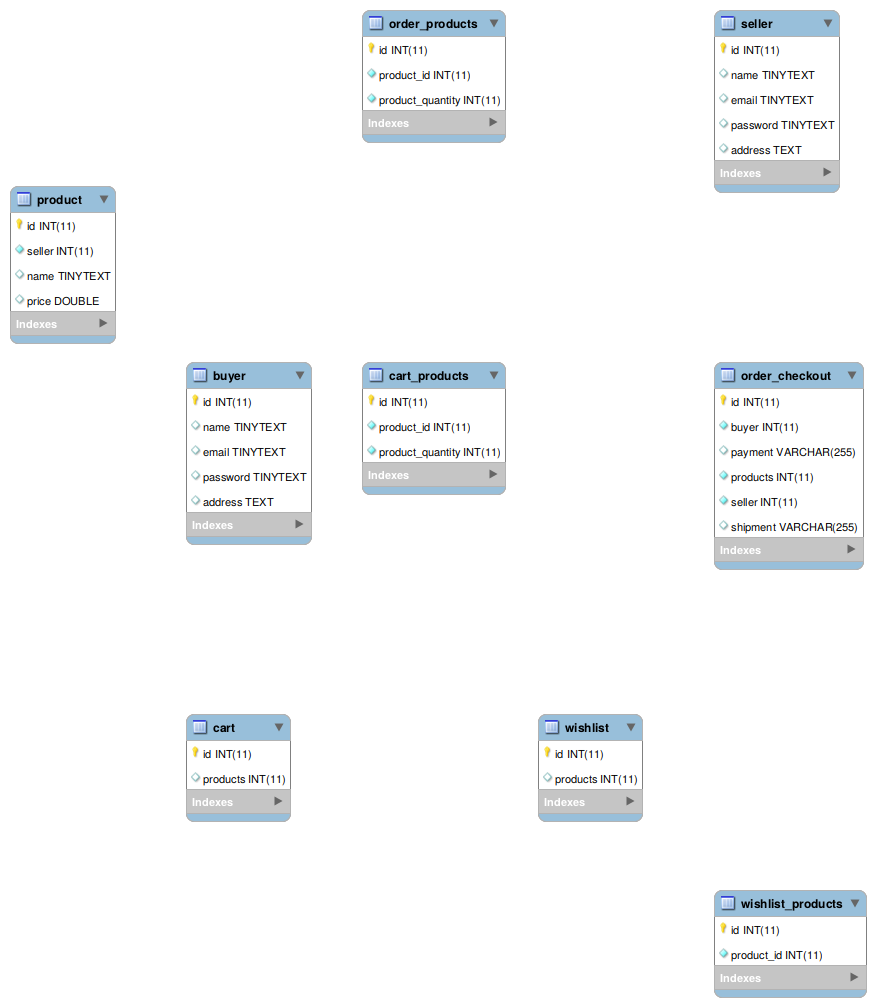
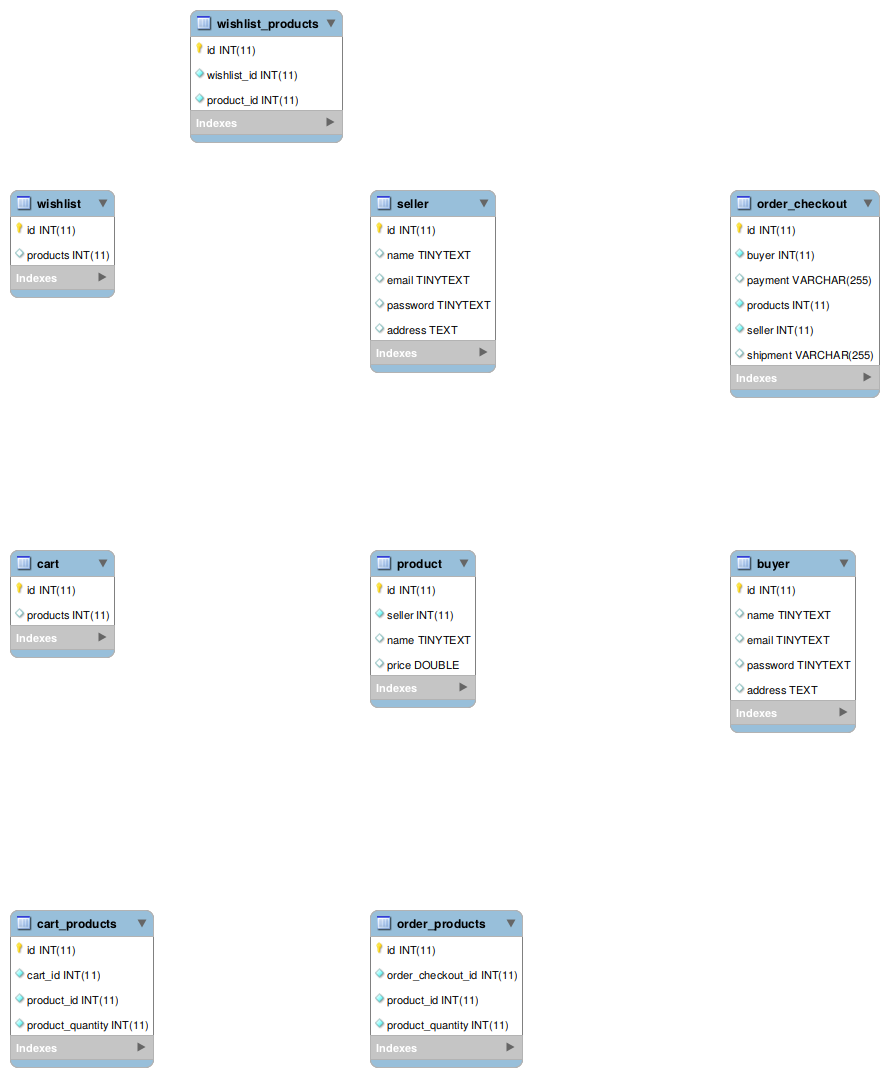
Add ID for multi entities

diff --git a/mysql-rest-service/src/main/java/com/javahelps/restservice/entity/OrderProducts.java b/mysql-rest-service/src/main/java/com/javahelps/restservice/entity/OrderProducts.java
@@ -8,6 +8,7 @@ public class OrderProducts {
 
     @Id
     private int id;
+    private int orderCheckoutId;
     private int productId;
     private int productQuantity;
 
@@ -17,6 +18,14 @@ public class OrderProducts {
 
     public void setId(int id) {
         this.id = id;
+    }
+
+    public int getOrderCheckoutId() {
+        return orderCheckoutId;
+    }
+
+    public void setOrderCheckoutId(int orderCheckoutId) {
+        this.orderCheckoutId = orderCheckoutId;
     }
 	
 	public int getProductId() {
@@ -37,6 +46,6 @@ public class OrderProducts {
 	
 	@Override
     public String toString() {
-        return "OrderProducts{" + "id='" + id + '\'' + ", productId='" + productId + '\'' + ", productQuantity='" + productQuantity + '\'' + '}';
+        return "OrderProducts{" + "id='" + id + '\'' + ", orderCheckoutId='" + orderCheckoutId + '\'' + ", productId='" + productId + '\'' + ", productQuantity='" + productQuantity + '\'' + '}';
     }
 }

diff --git a/mysql-rest-service/src/main/java/com/javahelps/restservice/entity/CartProducts.java b/mysql-rest-service/src/main/java/com/javahelps/restservice/entity/CartProducts.java
@@ -8,6 +8,7 @@ public class CartProducts {
 
     @Id
     private int id;
+    private int cartId;
     private int productId;
     private int productQuantity;
 
@@ -17,6 +18,14 @@ public class CartProducts {
 
     public void setId(int id) {
         this.id = id;
+    }
+    
+    public int getCartId() {
+        return cartId;
+    }
+
+    public void setCartId(int cartId) {
+        this.cartId = cartId;
     }
 	
 	public int getProductId() {
@@ -37,6 +46,6 @@ public class CartProducts {
 	
 	@Override
     public String toString() {
-        return "Cart{" + "id='" + id + '\'' + ", productId='" + productId + '\'' + ", productQuantity='" + productQuantity + '\'' + '}';
+        return "Cart{" + "id='" + id + '\'' + ", cartId='" + cartId + '\'' + ", productId='" + productId + '\'' + ", productQuantity='" + productQuantity + '\'' + '}';
     }
 }

diff --git a/mysql-rest-service/src/main/java/com/javahelps/restservice/entity/WishlistProducts.java b/mysql-rest-service/src/main/java/com/javahelps/restservice/entity/WishlistProducts.java
@@ -8,6 +8,7 @@ public class WishlistProducts {
 
     @Id
     private int id;
+    private int wishlistId;
     private int productId;
 
     public int getId() {
@@ -16,6 +17,14 @@ public class WishlistProducts {
 
     public void setId(int id) {
         this.id = id;
+    }
+    
+    public int getWishlistId() {
+        return wishlistId;
+    }
+
+    public void setWishlistId(int wishlistId) {
+        this.wishlistId = wishlistId;
     }
 	
 	public int getProductId() {
@@ -28,6 +37,6 @@ public class WishlistProducts {
 	
 	@Override
     public String toString() {
-        return "WishlistProducts{" + "id='" + id + '\'' + ", productId='" + productId + '\'' + '}';
+        return "WishlistProducts{" + "id='" + id + '\'' + ", wishlistId='" + wishlistId + '\'' + ", productId='" + productId + '\'' + '}';
     }
 }
